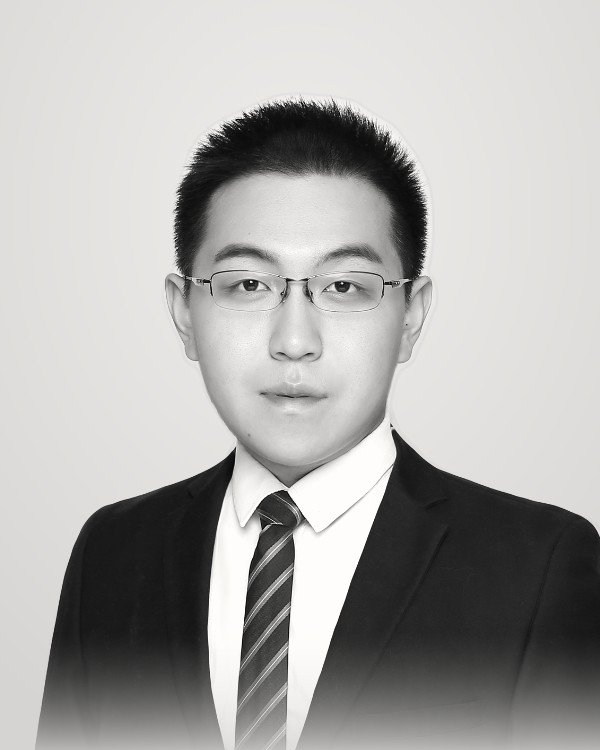
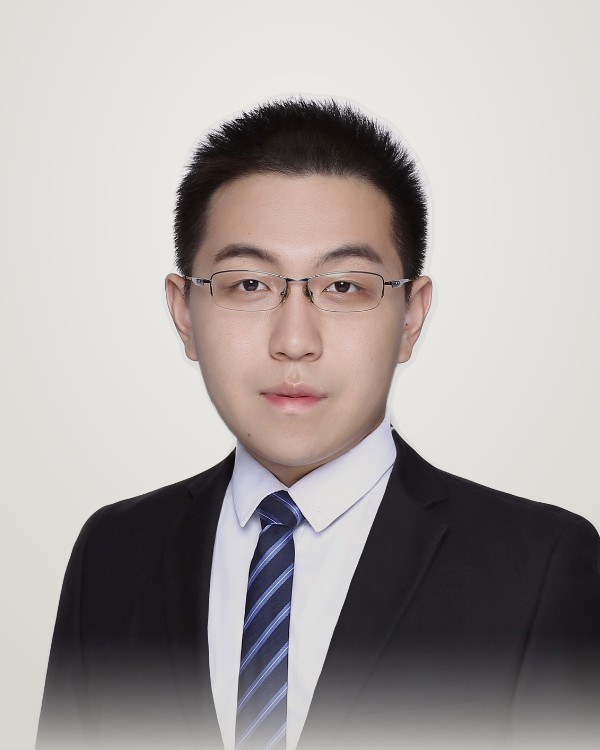
Use colour portraits and stop showing the "To confirm" tag
- Portraits are now in colour, graded toward one skin tone, brightness
  and white balance on the shared backdrop. Black-and-white portraits
  read as memorial photos in Chinese usage.
- The confirm flag in research-data.js stays as a maintainer note but is
  no longer shown on the Research page. The AI-native entry drops it.
- STYLE.md, SOURCES.md and CONTRIBUTING.md updated to match.

Claude-Session: https://claude.ai/code/session_01RXdQfjjahZ8ZRuq4cfn5rr

diff --git a/assets/js/research-data.js b/assets/js/research-data.js
@@ -2,6 +2,7 @@
   Places and studies for the homepage globe and the Research page list.
   Every study needs a public source (url or evidence). confirm: true marks entries taken from
   internal records or added on request; they need the authors' approval before a public launch.
+  The flag is for maintainers only and is not shown on the site.
   status: published | review | working | ongoing | planned | proposed | project | tbd
   place is where the data were collected; alsoPlaces lists further places for studies that span several.
   Reviewed by Xilan on October 30, 2026 (keep/delete/author order). Compiled October 30, 2026 from publisher pages, Stanford profiles, King Center pages,
@@ -170,7 +171,6 @@ window.LAB_RESEARCH = {
    "venue": "multi-case study",
    "status": "ongoing",
    "method": "Case studies",
-   "confirm": true,
    "summary": "A multi-case study of young companies in the United States and China whose work is done mostly at a computer, tracing how founders divide work between people and AI agents and how that division changes as the company grows.",
    "page": "ai-native-firms.html",
    "url": "ai-native-firms.html"

diff --git a/assets/js/research-list.js b/assets/js/research-list.js
@@ -51,7 +51,6 @@
     tags.append(el("span", "tag s-" + s.status, STATUS[s.status] || s.status));
     if (s.method) tags.append(el("span", "tag", s.method));
     if (state.view === "year") placesOf(s).forEach(function (id) { tags.append(el("span", "tag place", placeName(id))); });
-    if (s.confirm) tags.append(el("span", "tag confirm", "To confirm"));
     li.append(tags);
     var h = el("h4");
     if (s.url) h.append(link(s.title, s.url)); else h.textContent = s.title;

diff --git a/docs/STYLE.md b/docs/STYLE.md
@@ -45,12 +45,12 @@ Palo Alto `#175e54`, Lagunita `#007c92`, Sandstone and Archway appear only insid
 
 ## Portraits
 
-`assets/people/<name>-portrait.jpg`, 600 × 750. Each is cut out from its source, framed so the face sits at the same height and size, and placed on the shared light backdrop, so nobody's head is cropped and backgrounds do not compete. Keep the source photo next to it and record it in `docs/SOURCES.md`.
+`assets/people/<name>-portrait.jpg`, 600 × 750, in colour. Each is cut out from its source, framed so the face sits at the same height and size, colour-graded toward one skin tone, brightness and white balance (slightly desaturated), and placed on the shared warm light-grey backdrop, so nobody's head is cropped and backgrounds do not compete. Avoid black-and-white portraits: in Chinese usage they read as memorial photos. Keep the source photo next to it and record it in `docs/SOURCES.md`.
 
 ## Research globe
 
 - The globe sits in the homepage's opening field: land as a fine dot screen, countries with studies in cardinal, raised arcs from Stanford. It turns slowly on its own (about 80 seconds per turn). Colours are the `--globe-*` tokens.
-- Every point needs a public source. Mark entries from internal records "To confirm" (`confirm: true` in `assets/js/research-data.js`) until the authors approve them.
+- Every point needs a public source. Flag entries from internal records with `confirm: true` in `assets/js/research-data.js` until the authors approve them. The flag is for maintainers and is not shown on the site.
 - The caption under the buttons shows the place nearest the front of the visible part, with its study count and a link.
 - Each point links straight to that place's research: its own page if there is one (`href`), otherwise `research.html#place-<id>`.
 - Dragging turns the globe; hovering a point pauses on it. All motion stops when the visitor's system asks for reduced motion.

diff --git a/docs/SOURCES.md b/docs/SOURCES.md
@@ -60,7 +60,7 @@ Profile photos downloaded on October 30, 2026 from each person's public page, fo
 
 ### Portraits shown on the site
 
-`assets/people/<name>-portrait.jpg` (600 × 750) are what the pages display. Each was made on November 2, 2026 from the source photo listed above: the person was cut out with a U-2-Net human-segmentation model, framed so the face sits at the same size and height, converted to black and white and placed on the shared light backdrop. The two tightly cropped sources (Tess Lallemant, Ronald Wang) have their lowest rows stretched slightly so the shoulders reach the bottom of the frame. Guankai Zhai's portrait uses a studio headshot he supplied on November 2, 2026 in place of the STVP photo (the original is not stored in this repository).
+`assets/people/<name>-portrait.jpg` (600 × 750) are what the pages display. Each was made on November 2, 2026 from the source photo listed above: the person was cut out with a U-2-Net human-segmentation model, framed so the face sits at the same size and height, colour-graded toward a common skin tone, brightness and white balance, and placed on the shared light backdrop. The two tightly cropped sources (Tess Lallemant, Ronald Wang) have their lowest rows stretched slightly so the shoulders reach the bottom of the frame. Guankai Zhai's portrait uses a studio headshot he supplied on November 2, 2026 in place of the STVP photo (the original is not stored in this repository).
 
 Roles shown are current professional roles from the same pages. Guankai Zhai's PhD programme is from [MS&E's Autumn 2025 incoming PhD students](https://msande.stanford.edu/news/meet-our-incoming-phd-students-autumn-2025); Ronald Wang's from his [MS&E page](https://msande.stanford.edu/people/ronald-wang); Tess Lallemant's postdoctoral fellowship at the King Center from her own site. Order: faculty, then postdoctoral fellows, then students by last name.
 

diff --git a/CONTRIBUTING.md b/CONTRIBUTING.md
@@ -30,7 +30,7 @@ Open the pull request using the link GitHub returns. For small text edits, GitHu
 - Do not restore the removed personal email or substitute another person's address without an agreed change.
 - Keep the mentorship study, planned AI advice-presentation study and prospective savings-group pilot distinct. Preparation, proposals and observed findings have different meanings.
 - Support research statements with sources. Do not turn early presentation scenarios, provisional budgets or unreported findings into established results.
-- Research globe entries (`assets/js/research-data.js`) need a public source for the place and the citation. Keep `confirm: true` on entries taken from internal records until the authors approve them, and use the status that applies today: Published, Under review, Working paper, In progress or Planned.
+- Research globe entries (`assets/js/research-data.js`) need a public source for the place and the citation. Keep `confirm: true` on entries taken from internal records until the authors approve them (the flag is not shown on the site), and use the status that applies today: Published, Under review, Working paper, In progress or Planned.
 - Design changes follow [docs/STYLE.md](docs/STYLE.md). Change colours and type through the tokens at the top of `styles.css`.
 - Preserve image credits and meaningful alt text. Record new image sources and permissions in `docs/SOURCES.md`.
 - Use plain English, semantic heading levels, readable contrast and layouts that work on narrow screens.
